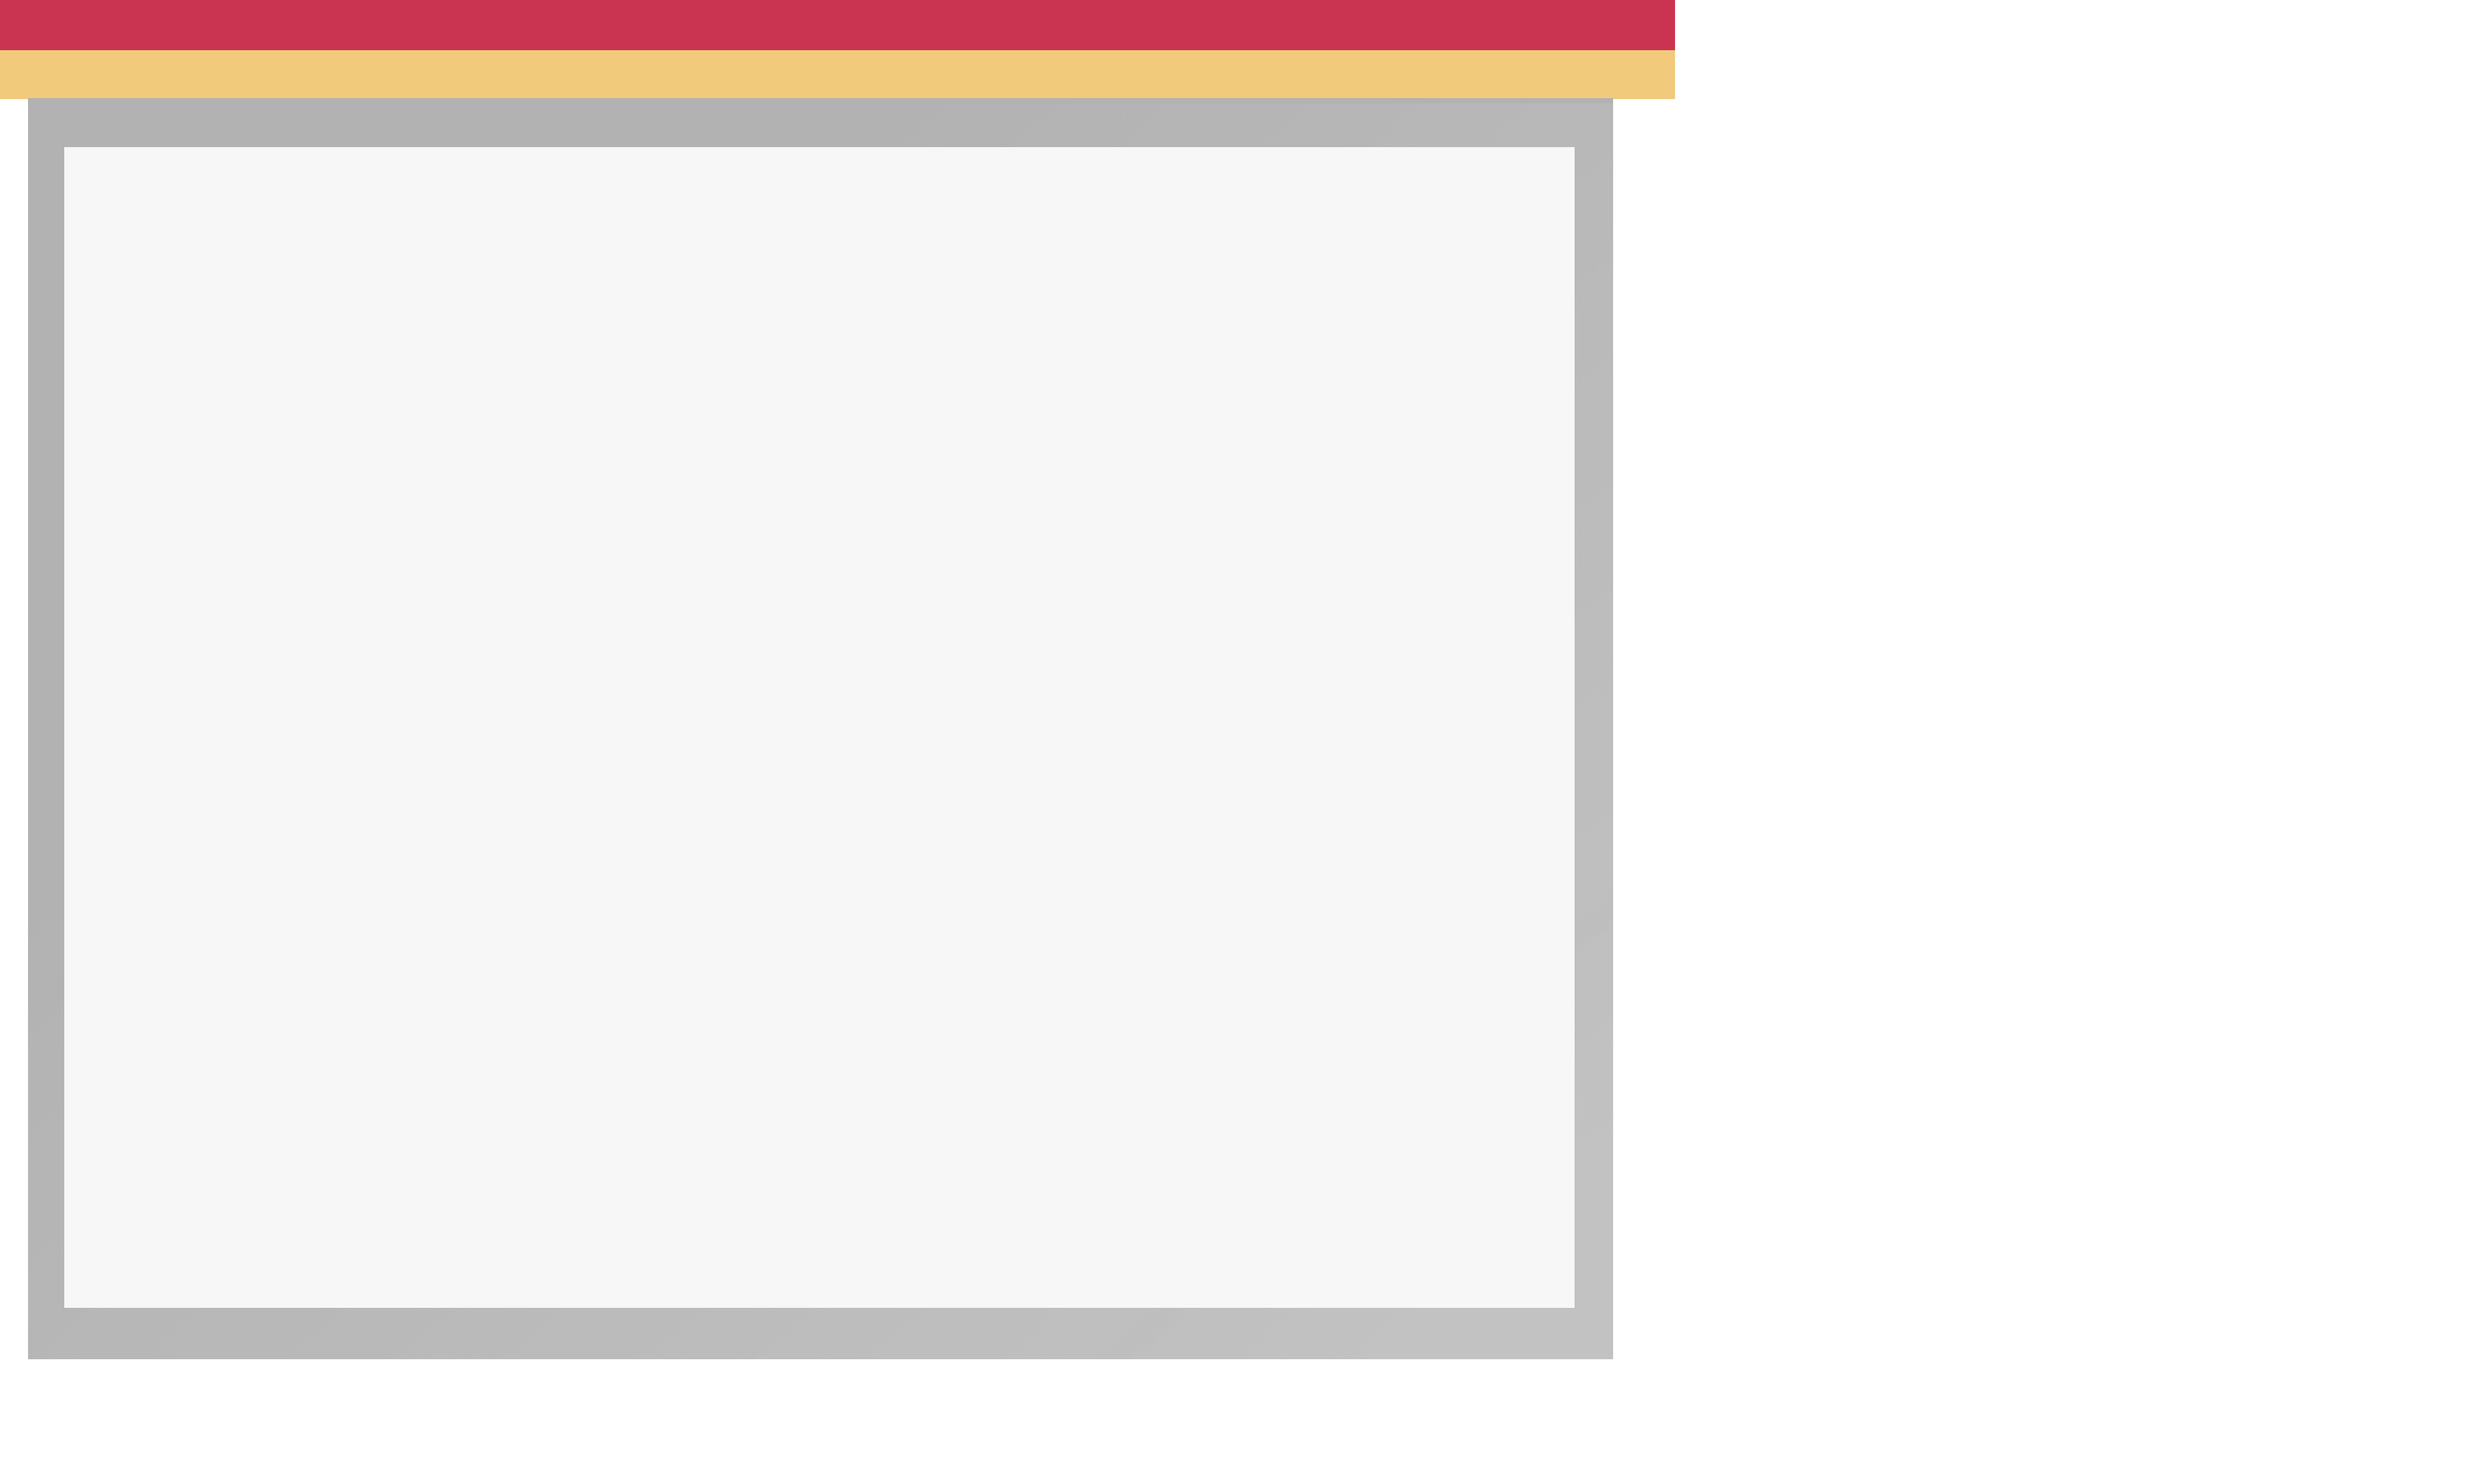
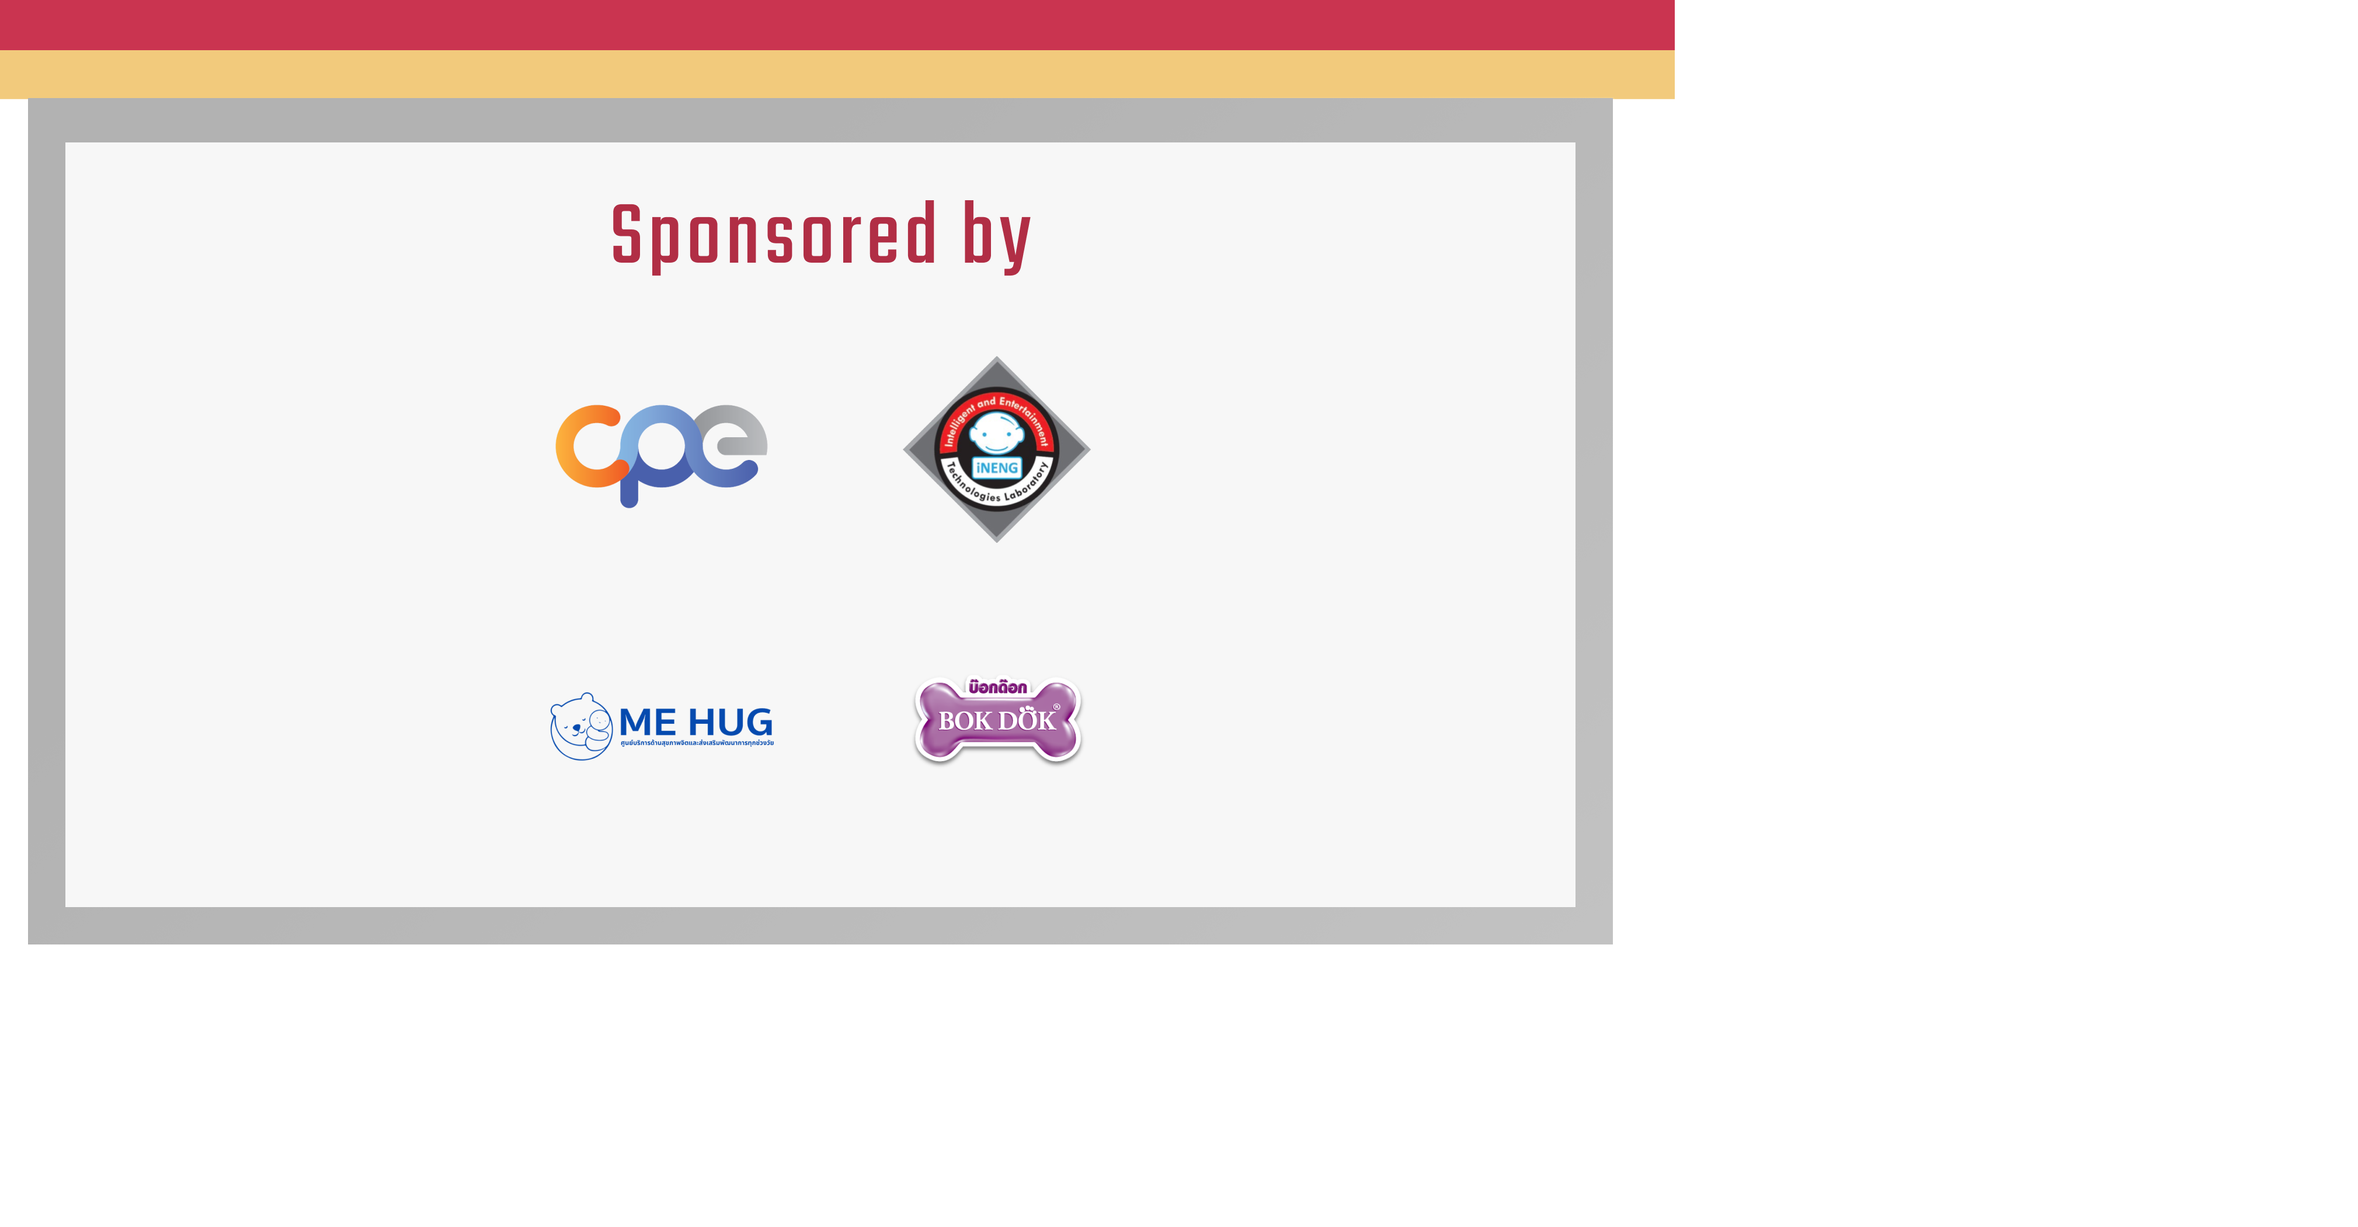
feat: sponsor section

diff --git a/src/pages/FrontPage.tsx b/src/pages/FrontPage.tsx
@@ -29,7 +29,7 @@ export const FrontPage = () => {
             <ConditionsSection />
             <TimelineSection />
             <FAQSection />
-            {/* <SponsorSection /> */}
+            <SponsorSection />
             <ContactSection />
             <Footer />
             <div>
